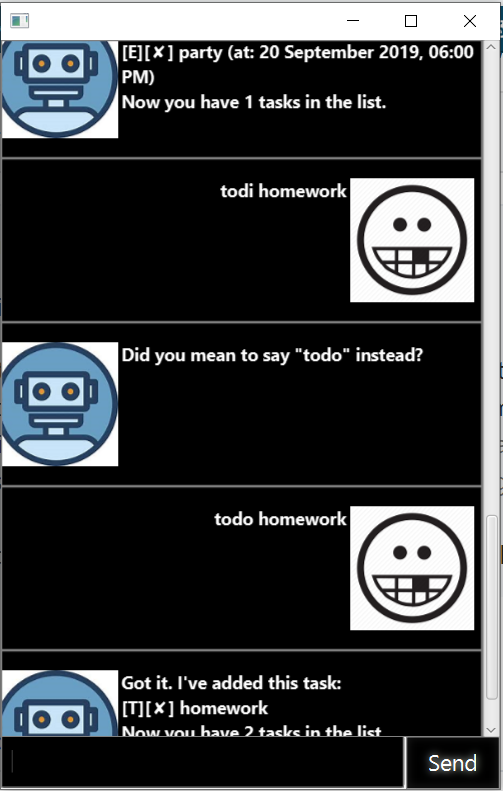
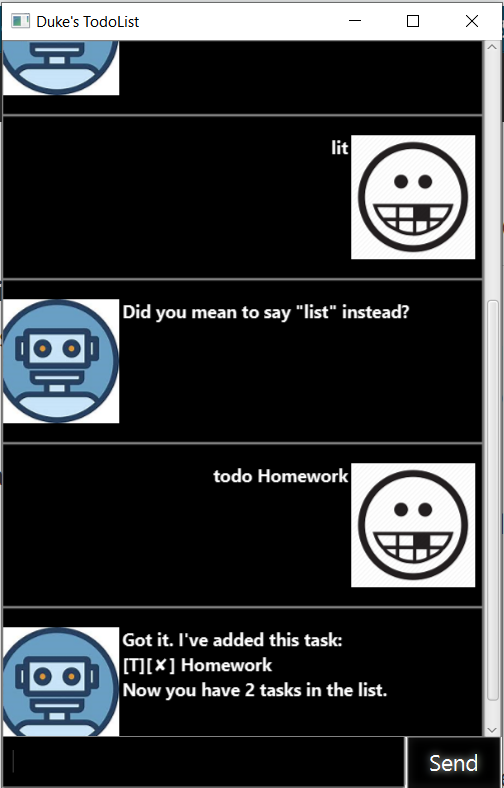
Did Duke's website

Changed region(s): [[0.0, 0.0, 1.0, 1.0]]

diff --git a/src/main/java/duke/Main.java b/src/main/java/duke/Main.java
@@ -20,6 +20,7 @@ public class Main extends Application {
     @Override
     public void start(Stage stage) {
         try {
+            stage.setTitle("Duke's TodoList");
             FXMLLoader fxmlLoader = new FXMLLoader();
             fxmlLoader.setClassLoader(getClass().getClassLoader());
             fxmlLoader.setLocation(getClass().getResource("/view/MainWindow.fxml"));
